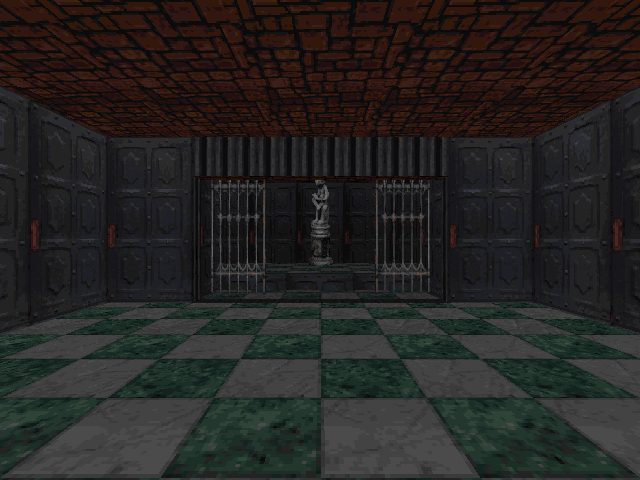
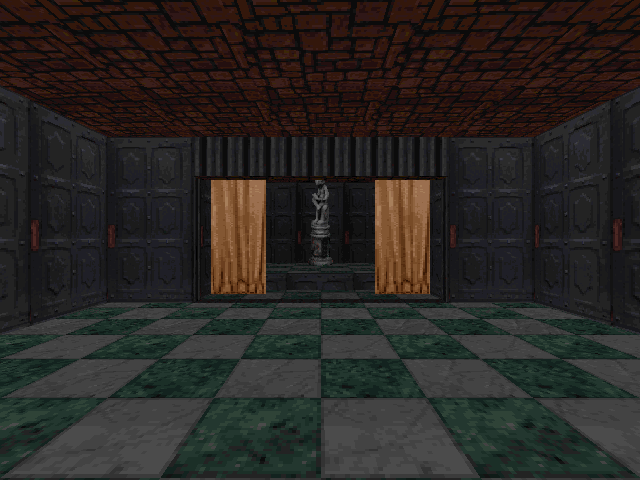
Let a sliding gate wear something other than a fence
`sliding_gate` hard-coded tile 1044, so the zoo's CURTAIN exhibit was a
curtain in name and a chain-link fence on screen -- in a timber proscenium,
which made the mismatch worse rather than hiding it. A two-leaf slide is not
inherently a fence, and the constructor now takes `leaf_picnum` alongside the
`tile_width`/`tile_height` it already took.

CURTAIN now wears owner anchor 146, the curtain texture, graded strong: 32x128,
a narrow vertical strip, which is exactly why the repeat had to come from the
tile rather than from the fence's 128x128.

What it still is NOT is recorded on the exhibit as hand-composed, so the
promotion audit sees it: the owner's anchor note says a Blood curtain is a
thin sector whose WIDTH changes, deforming the texture as it opens. This is a
two-leaf slide wearing the right tile. No constructor builds the real thing.

Changed region(s): [[0.5625, 0.375, 0.6875, 0.625], [0.3125, 0.375, 0.4375, 0.625]]

diff --git a/projects/pattern-zoo/stalls.py b/projects/pattern-zoo/stalls.py
@@ -46,6 +46,9 @@ CRATE_LARGE_TILE, CRATE_LARGE_SIDE, CRATE_LARGE_RISE = 95, 2048, 32768
 CRATE_BROKEN_TILE = 462
 
 #: Owner anchors, by the owner's number.
+#: 146 is the curtain texture (strong binding), 32x128 -- a narrow vertical
+#: strip, which is why it needs its own repeat rather than the fence's.
+CURTAIN_TILE, CURTAIN_TILE_W, CURTAIN_TILE_H = 146, 32, 128
 BLADE = 332
 JAMB_RAIL, THRESHOLD = 195, 200
 GRASS, DIRT = 361, 270
@@ -480,7 +483,7 @@ def turnstile_same_way(layout, stall, box, back, *, floor_z, ceiling_z,
 
 def _gate(layout, stall, box, back, name, *, floor_z, ceiling_z, skin,
           channel, busy_time, depth=U, pushable=True,
-          frame=None, header_z=None):
+          frame=None, header_z=None, leaf=None):
     """A sliding gate in the back strip, built by mechanism.sliding_gate.
 
     `frame` cuts a proscenium first -- a narrower opening with jambs and a
@@ -511,6 +514,7 @@ def _gate(layout, stall, box, back, name, *, floor_z, ceiling_z, skin,
     threshold = ((middle, centre - span // 2), (middle, centre + span // 2))
     sliding_gate(layout, f"{name}:gate", _rect(strip),
                  threshold=threshold, travel=span // 2,
+                 **(leaf or {}),
                  channel=channel, busy_time=busy_time, pushable=pushable,
                  floor_z=floor_z, ceiling_z=ceiling_z,
                  wall_picnum=wall, floor_picnum=floor, ceiling_picnum=ceiling)
@@ -547,7 +551,10 @@ def curtain(layout, stall, box, back, *, floor_z, ceiling_z, skin, **_):
     strip = _gate(layout, stall, box, back, "curtain",
                   floor_z=floor_z, ceiling_z=ceiling_z, skin=skin,
                   channel=CH_CURTAIN, busy_time=40, depth=768,
-                  frame=3 * U, header_z=header)
+                  frame=3 * U, header_z=header,
+                  leaf={"leaf_picnum": CURTAIN_TILE,
+                        "tile_width": CURTAIN_TILE_W,
+                        "tile_height": CURTAIN_TILE_H})
     stage = _slice(back, box, REVEAL + 768, 2 * U)
     layout.add_region(
         "curtain:stage", _rect(stage),

diff --git a/projects/pattern-zoo/registry.py b/projects/pattern-zoo/registry.py
@@ -275,13 +275,18 @@ def exhibits() -> list[Exhibit]:
             label="CURTAIN",
             about="a slide used as furnishing, not as a way through",
             try_this="open it; nothing behind it was ever closed off",
-            provenance="owner-attested E1M1 reading, sector 125. Its tile has "
-                       "no owner binding, which is why the dressing plane "
-                       "cannot name it -- reports/blood-role-v2.md",
+            provenance="owner-attested E1M1 reading, sector 125; the leaves "
+                       "wear owner anchor 146, curtain texture, graded strong",
             build=stalls.curtain, skin=TIMBER,
             prefix="curtain",
             hand_composed=(
-                          "a proscenium for the curtain to hang in; hand-composed as a framed opening",),
+                          "a proscenium for the curtain to hang in, "
+                          "hand-composed as a framed opening",
+                          "the curtain MECHANISM: this is a two-leaf slide "
+                          "wearing tile 146. The owner's anchor note says a "
+                          "Blood curtain is a thin sector whose WIDTH "
+                          "changes, deforming the texture as it opens, and "
+                          "no constructor builds one",),
             expect=Expect(sector_type=614)),
         Exhibit(
             label="SHELF SECRET",

diff --git a/bloodmap/mechanism.py b/bloodmap/mechanism.py
@@ -467,6 +467,7 @@ def sliding_gate(
     ceiling_z: int,
     tile_height: int = 128,
     tile_width: int = 128,
+    leaf_picnum: int = FENCE_PICNUM,
     busy_time: int = 20,
     pushable: bool = True,
     drawn_shut: bool = True,
@@ -570,7 +571,7 @@ def sliding_gate(
             x=int(round(mid[0] + ux * sign * drawn)),
             y=int(round(mid[1] + uy * sign * drawn)),
             z=floor_z, seat="floor",
-            type=0, picnum=FENCE_PICNUM, status=0,
+            type=0, picnum=int(leaf_picnum), status=0,
             cstat=carry | LEAF_CSTAT,
             x_repeat=leaf_x_repeat, y_repeat=leaf_y_repeat,
             shade=-8, angle=(along + 512) & 2047,

diff --git a/reports/pattern-zoo-tour.md b/reports/pattern-zoo-tour.md
@@ -179,9 +179,9 @@ the player start as a mechanism: a lid that lifts.
 a slide used as furnishing, not as a way through.
 
 - **try:** open it; nothing behind it was ever closed off
-- **from:** owner-attested E1M1 reading, sector 125. Its tile has no owner binding, which is why the dressing plane cannot name it -- reports/blood-role-v2.md
+- **from:** owner-attested E1M1 reading, sector 125; the leaves wear owner anchor 146, curtain texture, graded strong
 - **read back as:** 1 sector(s) of type 614
-- **hand-composed dressing:** a proscenium for the curtain to hang in; hand-composed as a framed opening -- promotion candidate
+- **hand-composed dressing:** a proscenium for the curtain to hang in, hand-composed as a framed opening; the curtain MECHANISM: this is a two-leaf slide wearing tile 146. The owner's anchor note says a Blood curtain is a thin sector whose WIDTH changes, deforming the texture as it opens, and no constructor builds one -- promotion candidate
 - **room:** 33280 clear (1.96 player heights), 5120 x 5120
 - **sector:** 45
 
